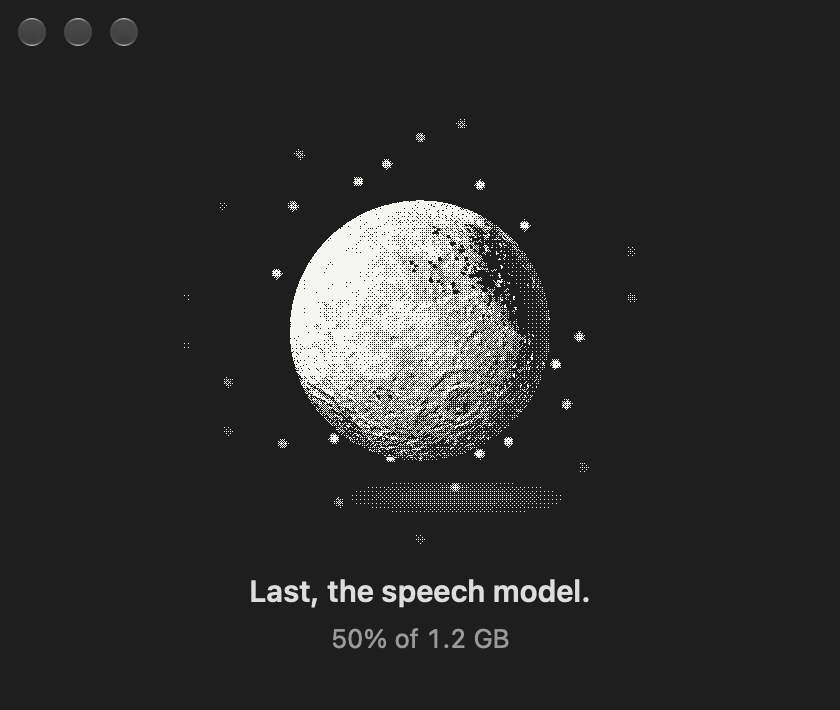
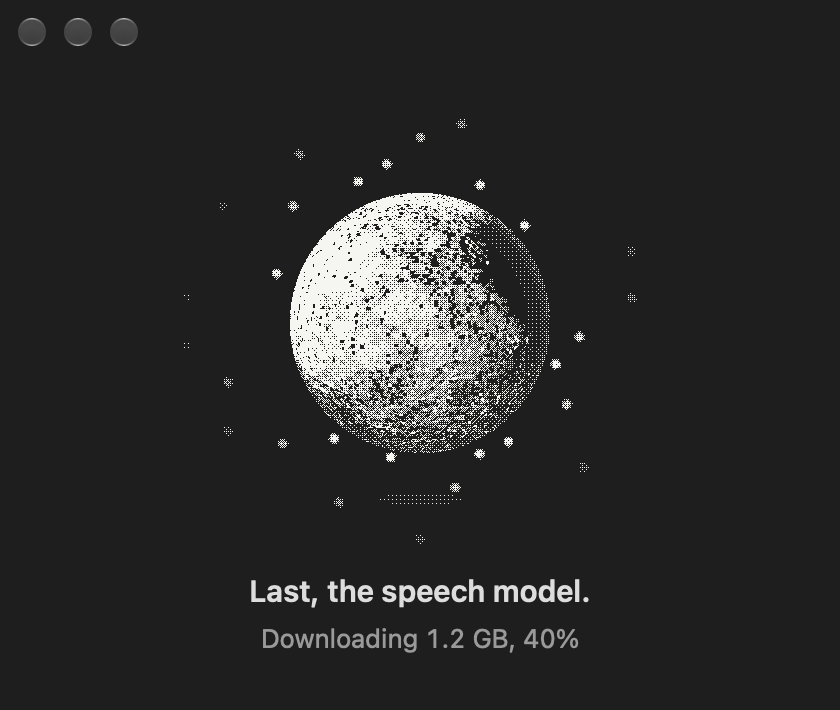
Update the README for 1.1.2

diff --git a/README.md b/README.md
@@ -27,21 +27,21 @@ Setup then walks through four steps, one at a time:
 1. **Microphone**, so it can hear you.
 2. **Accessibility**, so it can notice the Fn key and type into other apps.
 3. **The speech model**, a one-time download of about 1.2 GB from
-   [Hugging Face](https://huggingface.co/ConwayResearch/Underdog-Bark-3.0-Pro). If the download stops, choose Try
-   Again.
+   [Hugging Face](https://huggingface.co/ConwayResearch/Underdog-Bark-3.0-Pro). The download takes the percentage to
+   80%. Then "Preparing for this Mac" takes it the rest of the way, which takes about a minute. "Ready, 100%" means you
+   can start dictating. If the download stops, choose Try Again.
 4. **Try it.** Press Fn, say something, and press Fn again. Your words appear in the setup window.
 
 ![Setup downloading the speech model](docs/screenshots/setup-dark.png)
 
 After setup the app lives in the menu bar as a waveform. Click it to start dictation, paste your last dictation, open
-history, pause the shortcuts or open Settings. The menu starts with Start dictation and has no state line. Paste last
-text shows its configured shortcut, normally ⌥⇧V, using the native menu key equivalent.
+history, pause the shortcuts or open Settings. Paste last text has a shortcut too, Option-Shift-V (⌥⇧V) by default.
 
 ## Updates
 
-From 1.1, the app checks GitHub for new versions on its own. When one is ready, you see an update alert, or an Install
-update… item in the menu if the alert would have interrupted you. Nothing installs until you choose Install Update.
-Versions before 1.1 cannot check, so install 1.1 by hand once.
+The app checks GitHub for new versions on its own. When one is ready, you see an update alert, or an Install update…
+item in the menu if the alert would have interrupted you. Nothing installs until you choose Install Update. Versions
+before 1.1 cannot check, so install the latest version by hand once.
 
 ## How it works
 
@@ -49,12 +49,12 @@ Versions before 1.1 cannot check, so install 1.1 by hand once.
 - **You can start right after launch.** After setup, if the speech model is still loading when you press Fn, the app
   records anyway and types your words once the model is ready. If the model fails to load, or is still not ready two
   minutes after you start recording, a sound plays and the recording stays in memory until the model recovers, you
-  cancel it or you quit. After you stop, a pending transcription has at most two more minutes to finish; a timeout
-  ends that delivery with a logged reason. Recovered text is parked as described below.
+  cancel it or you quit.
 - **The text is typed where you were working,** and your clipboard is put back the way it was.
-- **When it cannot type,** because focus moved or there is no text field, a small moon parks beside the big one and the
-  text goes on the clipboard: press ⌘V. If the dictation is no longer on your clipboard, use Paste last text from the
-  menu. If the app could not confirm the text was typed, check before pasting, because it may already be there.
+- **When it cannot type,** because focus moved or there is no text field, the moon folds into a copy icon and the text
+  goes on the clipboard: press ⌘V. The icon rises away after 5 seconds, or sooner if you paste. Your text stays on the
+  clipboard until you copy something else. To get your last dictation back later, choose Paste last text from the menu.
+  If the app could not confirm the text was typed, check before pasting, because it may already be there.
 - **Cleanup depends on the app.** Most apps get the words as recognized. Slack, Discord, Telegram, WhatsApp and Messages
   get light cleanup: "um" and similar fillers go, "comma" and "new line" become punctuation, sentences are capitalized,
   and "scratch that" deletes the last sentence of the current dictation. Turn on Remove fillers and format text in
@@ -63,10 +63,12 @@ Versions before 1.1 cannot check, so install 1.1 by hand once.
 - **Corrections** are your own replacement rules for words it keeps getting wrong, for example "cloud code" to Claude
   Code. Turn on Apply corrections and choose Edit Corrections….
 - **History and text files** are optional and off by default. History shows your dictations with Copy and Add
-  Correction. Text files are saved as Markdown, by default to `~/Desktop/Transcripts/<date>/`.
+  Correction. Text files go in the Transcripts folder on your Desktop by default, in a folder for each day, as Markdown,
+  a plain-text format.
 - **The microphone is on only while you dictate.**
 - **A lock on the menu bar icon** means another app, such as a password manager or Terminal's Secure Keyboard Entry, is
-  holding secure input, so Fn cannot reach Local Dictation. Hover over the icon to see which app holds it, when known.
+  protecting what you type, so Local Dictation cannot notice Fn. Hold the pointer over the icon to see which app it is,
+  when the app can tell.
 
 ![Settings](docs/screenshots/settings-dark.png)
 
@@ -80,8 +82,9 @@ little to wait for when you stop. [docs/SPEC.md](docs/SPEC.md) has the measureme
 
 Local Dictation recognizes speech on your Mac and does not upload your audio or text. The app does not save recordings.
 Transcripts are saved only if you turn on history (kept in `~/Library/Application Support/LocalDictation/`) or text
-files. Clearing history does not delete text files. Your last usable dictation stays in memory until another usable transcript replaces it or until you
-quit, so you can paste it again. Once text is typed or pasted into another app, that app decides what happens to it.
+files. Clearing history does not delete text files. Your last dictation stays in memory until a newer one with words
+replaces it or you quit, so you can paste it again. Once text is typed or pasted into another app, that app decides what
+happens to it.
 
 The app goes online only to download the speech and voice activity models from Hugging Face, and to check GitHub for
 updates and download them.
